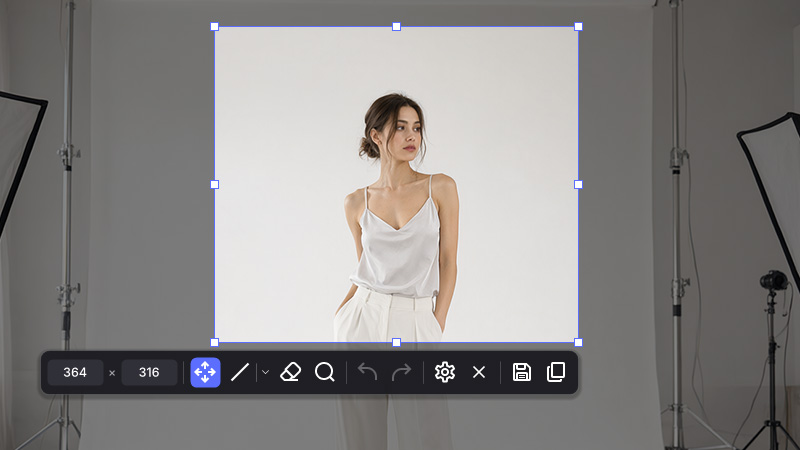
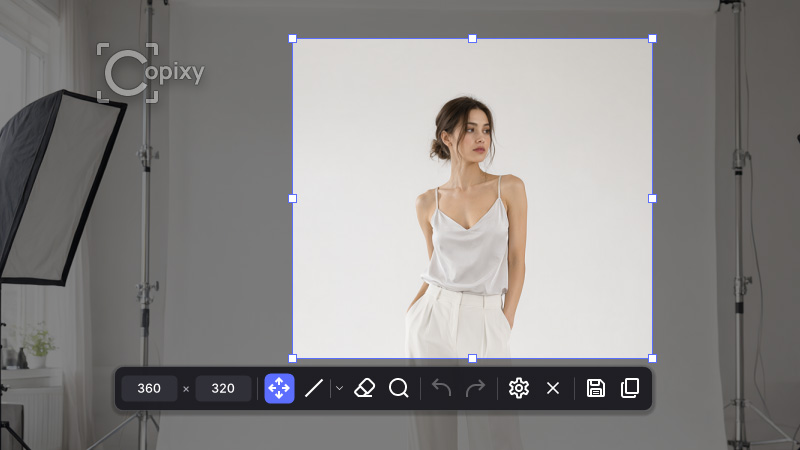
MIT license, code signing policy, CI build

diff --git a/README.md b/README.md
@@ -17,8 +17,8 @@ All versions and release notes: **[Releases](../../releases)**.
 
 Requirements: Windows 10 or 11 (64-bit or 32-bit). No installation needed — just run the file.
 
-> On first run Windows SmartScreen may show "Windows protected your PC" because the file is not code-signed.
-> Click **More info → Run anyway**.
+> On first run Windows SmartScreen may show "Windows protected your PC" because the file is not code-signed yet
+> (see [Code signing policy](#code-signing-policy)). Click **More info → Run anyway**.
 
 ## Screenshots
 
@@ -143,6 +143,30 @@ fonts from `resources\fonts`, and the app icon `resources\app.ico`.
 Icons come in sets per button: `name_xSm.png` (16), `_Sm` (20), `_Md` (24), `_Lg` (32), `_xLg` (40), `_2xLg` (48).
 The base toolbar icon size is 24 px at 100 % scaling; for other display scales the closest pre-rendered size is used.
 
+## Code signing policy
+
+Free code signing provided by [SignPath.io](https://about.signpath.io), certificate by [SignPath Foundation](https://signpath.org).
+*(Copixy has applied to the SignPath Foundation program; releases are unsigned until the application is approved.)*
+
+- Signed files are built only by [GitHub Actions](../../actions/workflows/build.yml) from the source code in this repository — never on a local machine.
+- Every signing request is approved manually.
+
+Team roles:
+
+- Committers and reviewers: [Deformarium](https://github.com/Deformarium)
+- Approvers: [Deformarium](https://github.com/Deformarium)
+
+## Privacy
+
+This program will not transfer any information to other networked systems unless specifically requested by the user or the person installing or operating it.
+
+- **Update check** (optional, on by default, can be turned off in Settings): once a day Copixy sends one request to the GitHub API (`api.github.com`) to read the number of the latest release. Nothing about you or your screenshots is sent; GitHub sees the request like any web request (your IP address). See the [GitHub General Privacy Statement](https://docs.github.com/en/site-policy/privacy-policies/github-general-privacy-statement).
+- Links in Help / About / Support (GitHub, Boosty) open in your browser only when you click them.
+- Screenshots stay on your computer: in the clipboard or in the files you save.
+
 ## Licenses
-- Toolbar icons — custom set (`resources\icons`, sizes xSm…2xLg = 16…48 px).
-- Font: [Inter](https://rsms.me/inter) — SIL Open Font License 1.1 (embedded, Latin + Cyrillic subset).
+
+- Copixy is released under the [MIT License](LICENSE).
+- Toolbar icons, app icon and logo — original artwork by Deformarium, part of this project (MIT).
+- Font: [Inter](https://rsms.me/inter) — [SIL Open Font License 1.1](resources/fonts/OFL.txt) (embedded, Latin + Cyrillic subset).
+- Bitcoin, Tether (USDT), Solana and Boosty logos are trademarks of their respective owners and are used only to identify the payment options.
